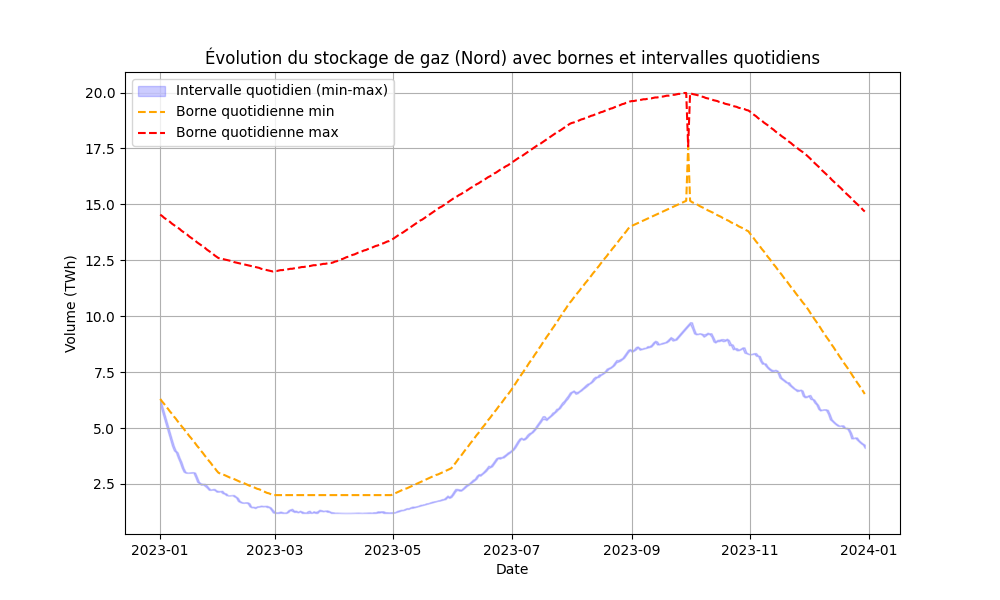
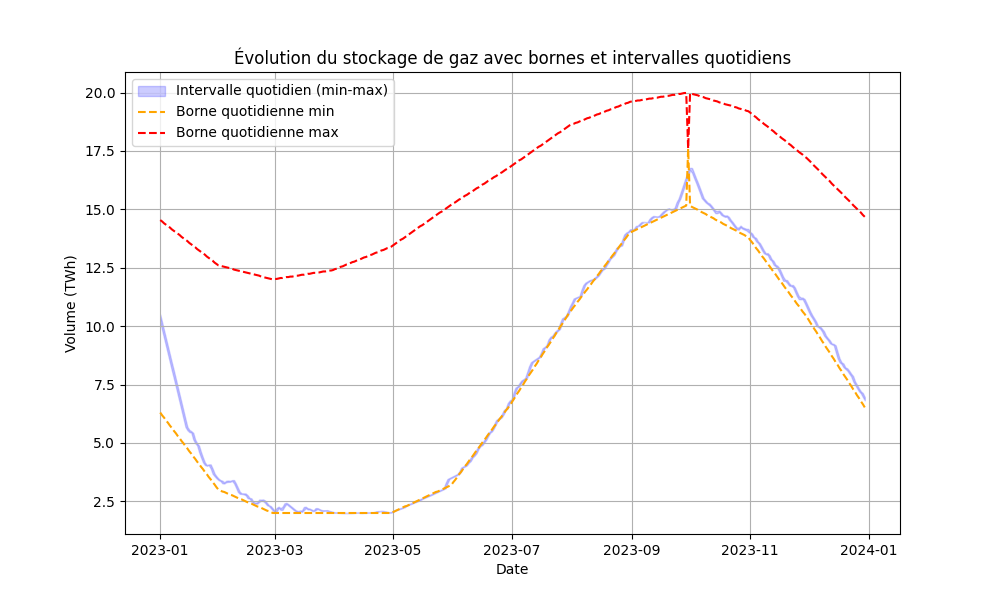
stock N+S

diff --git a/visualisation_resultats.py b/visualisation_resultats.py
@@ -119,17 +119,17 @@ def plot_gaz_stock_with_min_max(data, imagename):
     # Conversion de la colonne 'Date' en format datetime
     data['Date'] = pd.to_datetime(data['Date'])
     
-    
     # récupération de la capacité de stockage totale du gaz depuis l'Excel en K4
-
     # Charger le fichier Excel
     excel = load_workbook("Donnees_elec_gaz.xlsx")["Données_gaz"]
     # Accéder à la cellule K4
     capa_stock = excel["K4"].value
 
-    # Regroupement des données par jour pour obtenir les min et max quotidiens
-    daily_min = (data.groupby(data['Date'].dt.date)['CH4_N_stock'].min())/1000000 # conversion en TWh
-    daily_max = (data.groupby(data['Date'].dt.date)['CH4_N_stock'].max())/1000000 # conversion en TWh
+
+    # Regroupement des données par jour pour obtenir les min et max quotidiens, en sommant N et S pour obtenir le stockage total
+    data['CH4_stock'] = data['CH4_N_stock'] + data['CH4_S_stock'] # Stockage total de gaz (Nord + Sud)
+    daily_min = (data.groupby(data['Date'].dt.date)['CH4_stock'].min())/1000000 # conversion en TWh
+    daily_max = (data.groupby(data['Date'].dt.date)['CH4_stock'].max())/1000000 # conversion en TWh
 
     # Création de l'axe x basé sur les dates quotidiennes
     daily_dates = daily_min.index 
@@ -151,7 +151,7 @@ def plot_gaz_stock_with_min_max(data, imagename):
     plt.plot(daily_dates, lower_bound, label='Borne quotidienne min', color='orange', linestyle='--')
     plt.plot(daily_dates, upper_bound, label='Borne quotidienne max', color='red', linestyle='--')
 
-    plt.title('Évolution du stockage de gaz (Nord) avec bornes et intervalles quotidiens')
+    plt.title('Évolution du stockage de gaz avec bornes et intervalles quotidiens')
     plt.xlabel('Date')
     plt.ylabel('Volume (TWh)')
     plt.legend()
